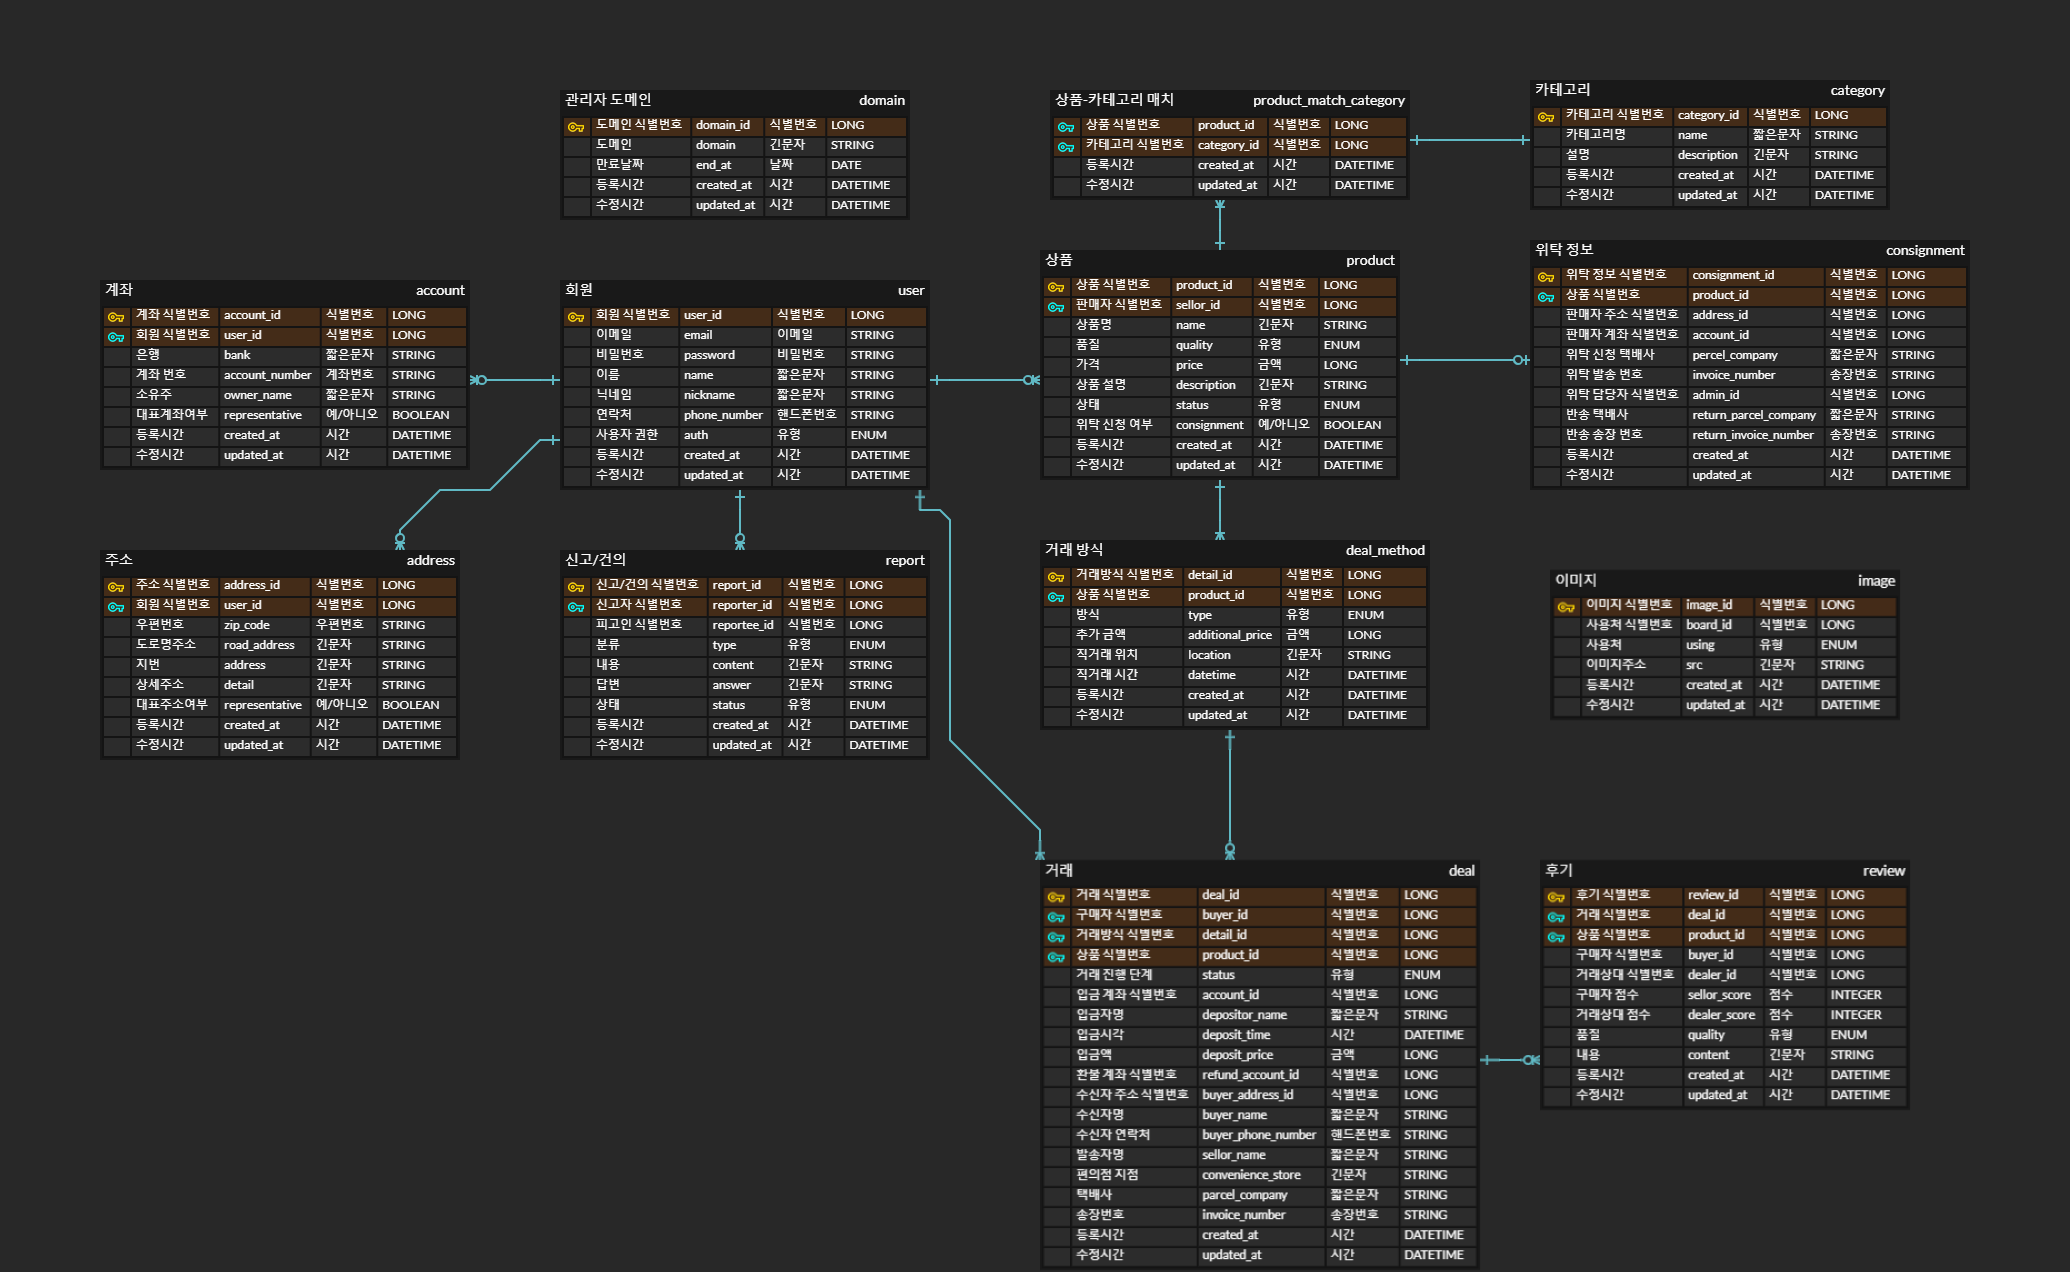
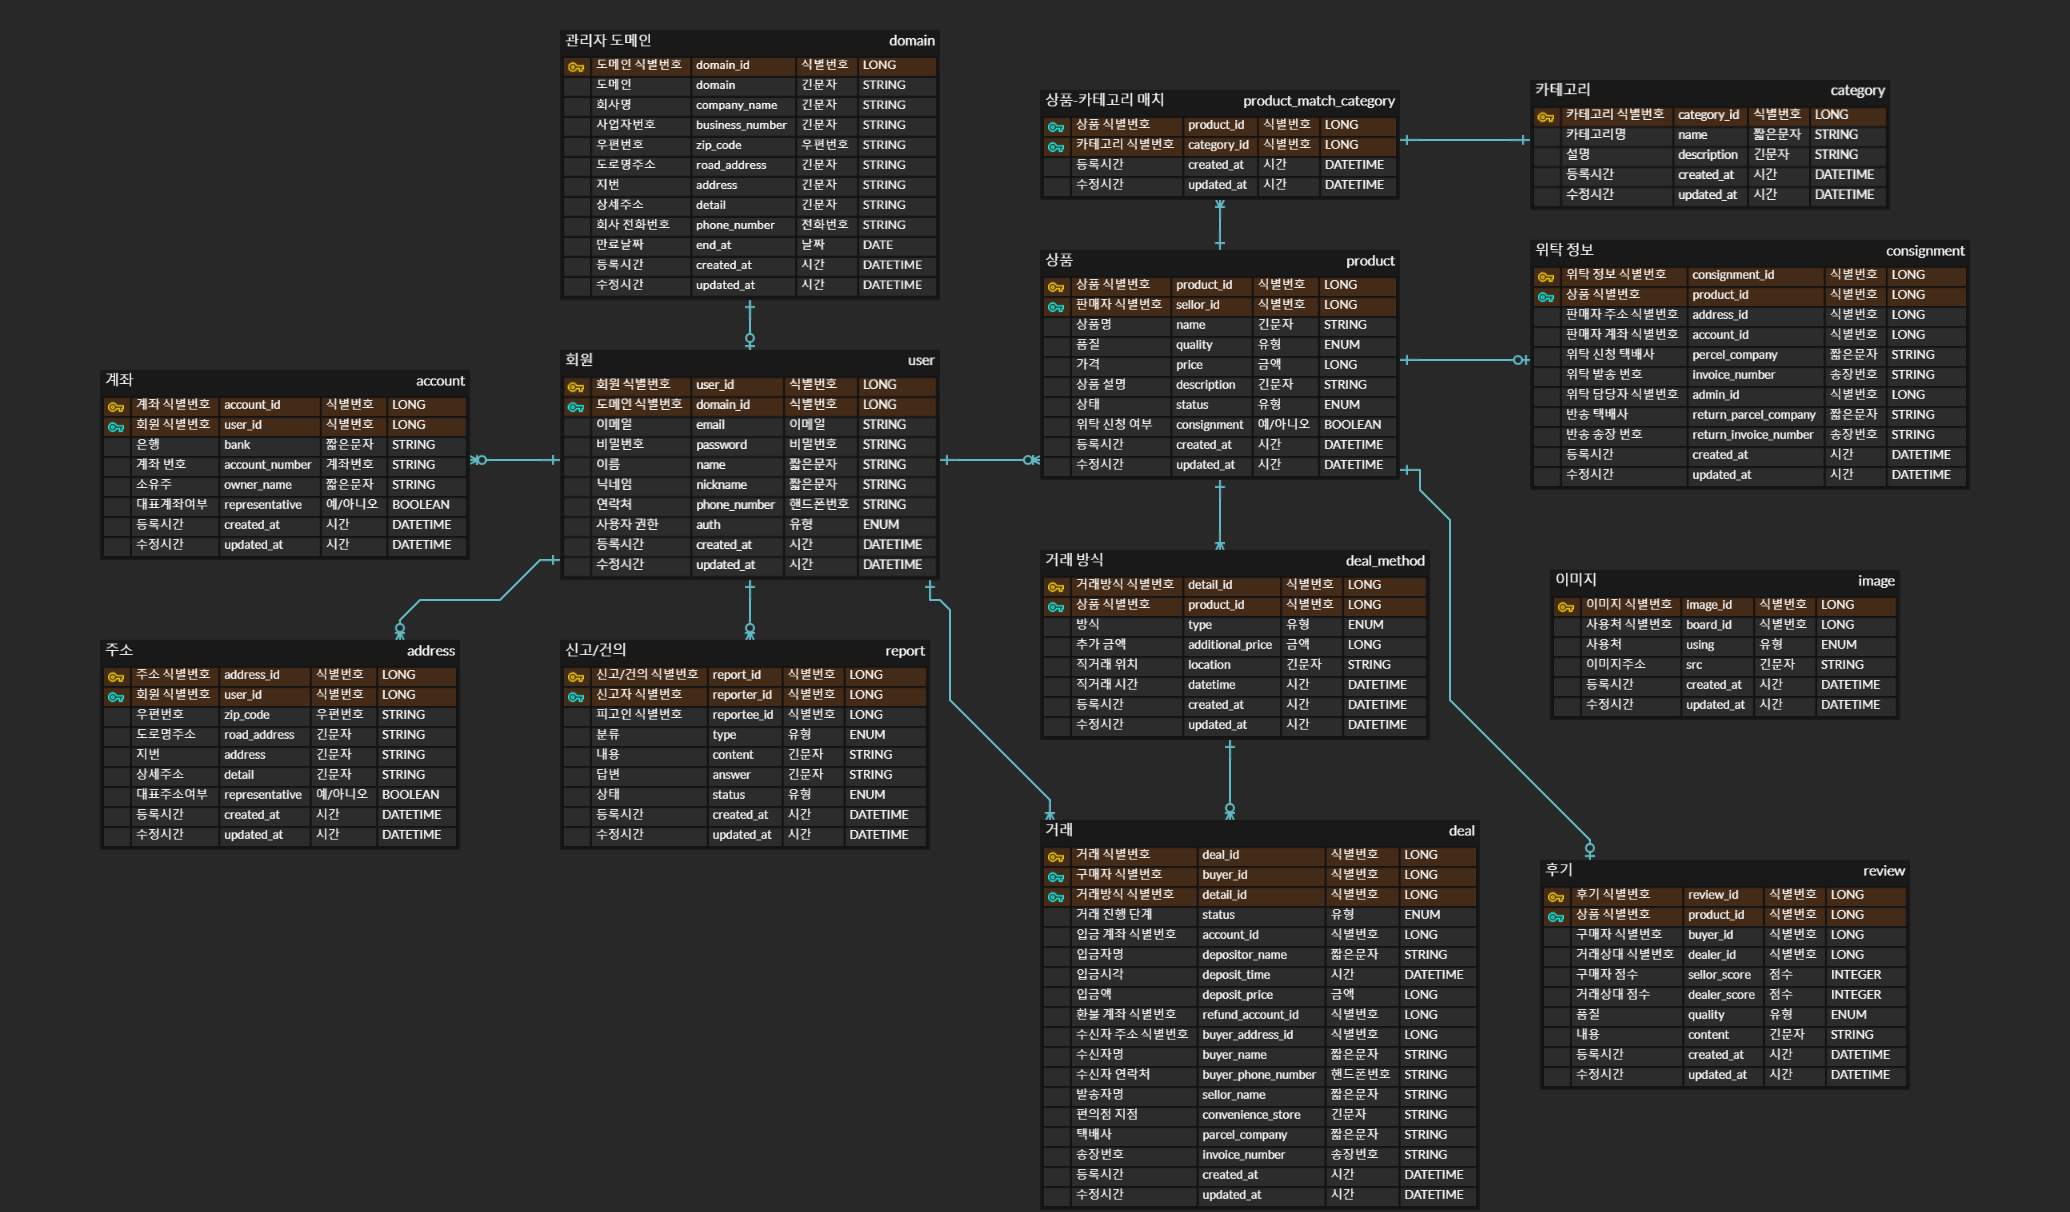
docs: README.md, erd.png update

diff --git a/README.md b/README.md
@@ -7,13 +7,15 @@
 - ### 관리자 도메인 관리
     - 관리자 도메인 등록
         - 1, 6, 12개월 단위로 유효한 관리자 도메인을 등록할 수 있다.
+        - 필요 입력정보: 도메인, 회사명, 사업자번호, 우편번호, 도로명 주소, 지번, 상세주소, 회사 전화번호, 기한(ONEYEAR(12개월), HALFYEAR(6개월), ONEMONTH(1개월) 중 선택)
         - 기업은 고유한 도메인을 가지고 있고, 일반 사용자는 관리자 도메인에 등록되어있는 도메인을 이용할 수 없다.
         - 관리자 도메인을 등록하기 전에 이미 해당 도메인을 이용하는 일반 사용자/거래 불가자가 있는 경우 지금은 기업에 종사하는 사람으로 판단, 관리자 권한으로 변경된다.
     - 관리자 도메인 갱신
         - 만료된 후 날짜를 갱신한다면 갱신하는 날짜 기준으로, 날짜가 남아있는데 갱신한다면 지정되어있는 만료 날짜를 기준으로 1, 6, 12개월 간격으로 만료되는 날짜를 늘릴 수 있다.
     - 도메인 정보 수정
-        - 식별번호에 해당하는 도메인 주소를 변경할 수 있다.
-        - 이 때, 해당 도메인을 이용하는 관리자들의 이메일 주소는 자동으로 변경된다.
+        - 식별번호에 해당하는 도메인 정보를 변경할 수 있다.
+        - 수정 가능 정보: 도메인, 회사명, 사업자번호, 우편번호, 도로명 주소, 지번, 상세주소, 회사 전화번호
+        - 도메인 변경 시 해당 도메인을 이용하는 관리자들의 이메일 주소는 자동으로 변경된다.
     - 도메인 삭제
       - 식별번호에 해당하는 도메인 주소를 삭제할 수 있다.
       - 이 때, 해당 도메인의 기간은 만료 상태여야 하며, 이 도메인을 사용하고 있던 관리자들은 모두 일반 사용자 권한으로 변경된다.
@@ -63,7 +65,7 @@
     - 사용자 정보 조회
         - 사용자의 식별번호를 이용하여 사용자의 상세 정보를 확인할 수 있다.
         - 조회되는 정보:
-            - 관리자의 식별번호일 때: 회원 식별번호, 닉네임, 권한, 판매 점수, 판매 내역, 주소
+            - 관리자의 식별번호일 때: 회원 식별번호, 닉네임, 권한, 판매 점수, 판매 내역, 주소, 도메인에 해당하는 회사정보
             - 일반 사용자/거래 불가자의 식별번호일 때: 회원 식별번호, 닉네임, 권한, 구매 점수, 구매 내역, 판매 점수, 판매 내역, 작성한 후기 내역
             - 관리자가 일반 사용자/거래 불가자를 조회할 땐 연락처와 이름도 조회된다.
     - 관리자 목록 조회
